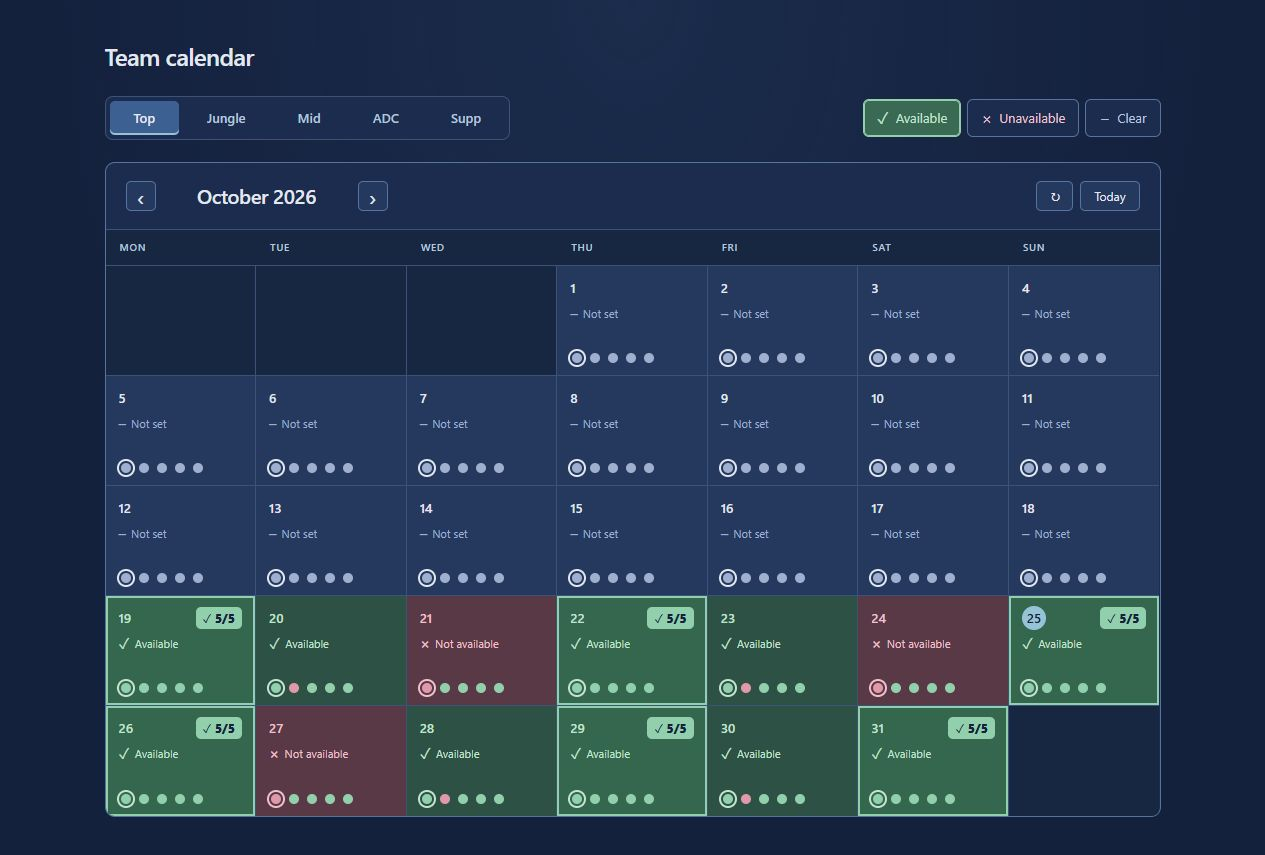
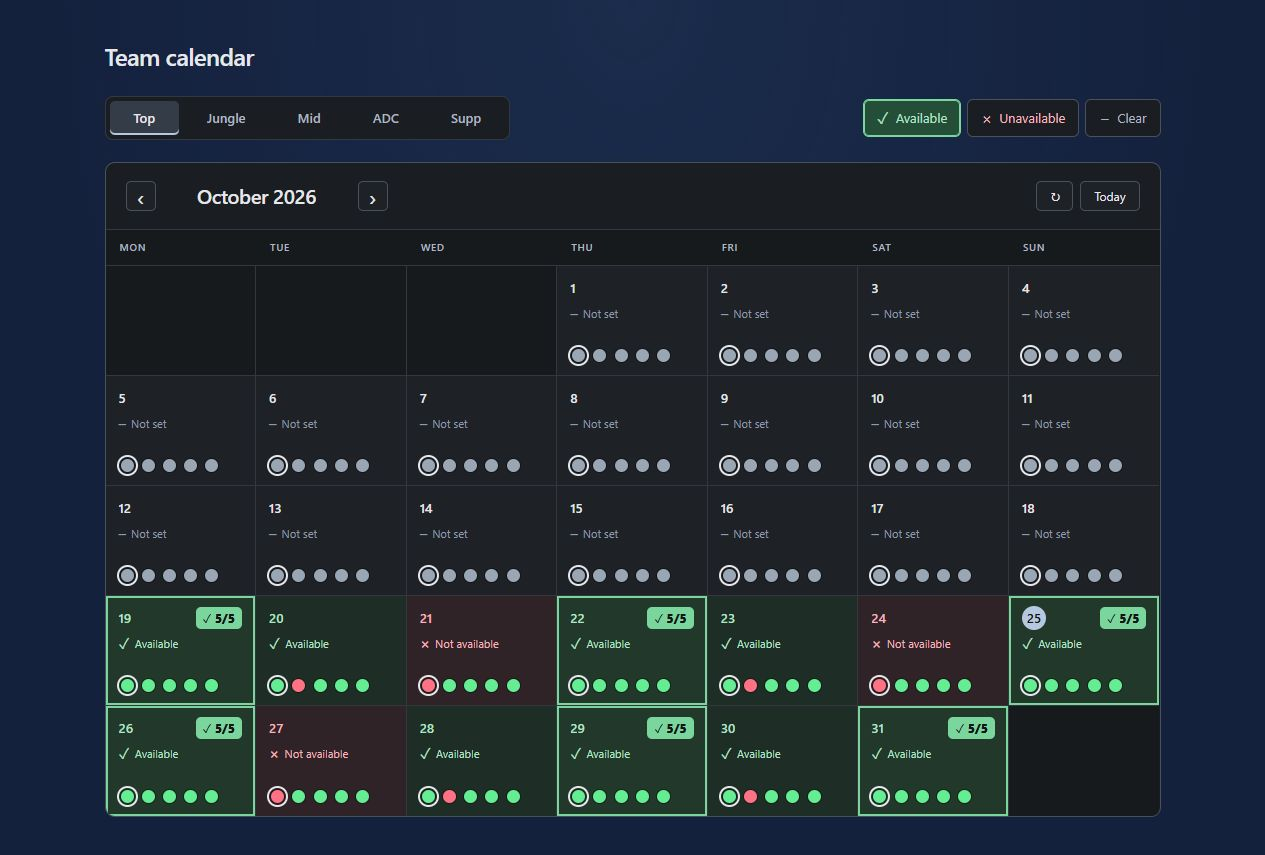
color palette edited, easier on the eyes

diff --git a/src/styles.css b/src/styles.css
@@ -1,25 +1,30 @@
 :root {
   --page: #14213d;
-  --surface: #1b2c4e;
-  --surface-raised: #25395f;
-  --surface-recessed: #172641;
-  --surface-hover: #304b76;
-  --selected: #3d6093;
-  --border: #3b5279;
-  --border-strong: #5575a0;
-  --text: #e2e7f0;
-  --muted: #b6c6df;
-  --subtle: #9eafd0;
-  --teal: #96c3d6;
-  --available-bg: #2e5145;
-  --available-selected: #3a6a54;
-  --available-accent: #92d0ad;
-  --available-text: #c2e5d0;
-  --all-available-bg: #35664e;
-  --unavailable-bg: #5a3946;
-  --unavailable-selected: #754653;
-  --unavailable-accent: #df99aa;
-  --unavailable-text: #efc0cd;
+  --page-glow: #3b60952b;
+  --surface: #1a1d21;
+  --surface-raised: #1e2227;
+  --surface-recessed: #171a1d;
+  --surface-hover: #2a3038;
+  --selected: #343c48;
+  --border: #34383e;
+  --border-strong: #49515b;
+  --text: #e5e7eb;
+  --muted: #aeb6c2;
+  --subtle: #8f9baa;
+  --accent: #b5c8e0;
+  --ink: #111315;
+  --available-bg: #1e2e26;
+  --available-selected: #244e38;
+  --available-accent: #7bd69d;
+  --available-text: #b4e4c6;
+  --all-available-bg: #22382b;
+  --unavailable-bg: #302328;
+  --unavailable-selected: #562e35;
+  --unavailable-accent: #eb8c98;
+  --unavailable-text: #f5b4bd;
+  --available-dot: #64ed93;
+  --unavailable-dot: #ff7185;
+  --unset-dot: #9ba6b5;
   font-family: Inter, -apple-system, BlinkMacSystemFont, "Segoe UI", sans-serif;
   color: var(--text);
   background: var(--page);
@@ -28,9 +33,9 @@
   line-height: 1.5;
 }
 * { box-sizing: border-box; }
-body { margin: 0; background: radial-gradient(ellipse at 50% 0, #3b60952b, transparent 65%); min-height: 100vh; }
+body { margin: 0; background: radial-gradient(ellipse at 50% 0, var(--page-glow), transparent 65%); min-height: 100vh; }
 button { font: inherit; cursor: pointer; touch-action: manipulation; }
-button:focus-visible { outline: 2px solid var(--teal); outline-offset: -3px; }
+button:focus-visible { outline: 2px solid var(--accent); outline-offset: -3px; }
 button:disabled { cursor: wait; }
 main { max-width: 1120px; margin: 0 auto; padding: 38px 32px; }
 .page-header { margin-bottom: 22px; }
@@ -44,12 +49,12 @@ h2 { margin: 0; font-weight: 600; }
 .paint-option.unavailable { color: var(--unavailable-text); }
 .paint-option.available.selected { background: var(--available-selected); border-color: var(--available-accent); box-shadow: inset 0 0 0 1px var(--available-accent); }
 .paint-option.unavailable.selected { background: var(--unavailable-selected); border-color: var(--unavailable-accent); box-shadow: inset 0 0 0 1px var(--unavailable-accent); }
-.paint-option.clear.selected { background: var(--selected); border-color: var(--teal); box-shadow: inset 0 0 0 1px var(--teal); color: var(--text); }
+.paint-option.clear.selected { background: var(--selected); border-color: var(--accent); box-shadow: inset 0 0 0 1px var(--accent); color: var(--text); }
 .paint-option:hover { filter: brightness(1.2); }
 .roles { display: inline-flex; gap: 4px; padding: 4px; border: 1px solid var(--border); border-radius: 8px; background: var(--surface); }
 .roles button { padding: 7px 24px; border: 0; border-radius: 5px; background: transparent; color: var(--muted); font-size: 13px; font-weight: 600; }
 .roles button:hover { color: var(--text); background: var(--surface-hover); }
-.roles button.selected { color: var(--text); background: var(--selected); box-shadow: inset 0 -2px var(--teal); }
+.roles button.selected { color: var(--text); background: var(--selected); box-shadow: inset 0 -2px var(--accent); }
 .calendar { overflow: hidden; border: 1px solid var(--border-strong); border-radius: 10px; background: var(--surface); }
 .calendar-toolbar { display: flex; align-items: center; justify-content: space-between; padding: 18px 20px; }
 .calendar-actions { display: flex; gap: 7px; }
@@ -68,25 +73,25 @@ h2 { margin: 0; font-weight: 600; }
 .day:nth-child(7n), .empty-day:nth-child(7n) { border-right: 0; }
 .days > :nth-last-child(-n+7) { border-bottom: 0; }
 .day { display: flex; flex-direction: column; position: relative; padding: 10px 13px; text-align: left; background: var(--surface-raised); color: var(--text); transition: background .12s, box-shadow .12s; }
-.day:hover { z-index: 1; box-shadow: inset 0 0 0 2px var(--teal); }
+.day:hover { z-index: 1; box-shadow: inset 0 0 0 2px var(--accent); }
 .day.available { background: var(--available-bg); color: var(--available-text); }
 .day.unavailable { background: var(--unavailable-bg); color: var(--unavailable-text); }
-.day.is-today .day-number { display: grid; width: 24px; height: 24px; place-items: center; border-radius: 50%; background: var(--teal); color: var(--page); }
+.day.is-today .day-number { display: grid; width: 24px; height: 24px; place-items: center; border-radius: 50%; background: var(--accent); color: var(--ink); }
 .day-top { display: flex; height: 24px; align-items: center; justify-content: space-between; }
 .day-number { font-size: 13px; font-weight: 600; }
 .day-status { display: flex; gap: 5px; align-items: center; margin-top: 6px; font-size: 11px; }
 .day-status > span:first-child { font-size: 15px; font-weight: 600; line-height: 1; }
 .day.unset .day-status { color: var(--subtle); }
-.team-dots { display: flex; align-items: center; gap: 8px; margin-top: auto; padding: 13px 2px 2px; }
-.team-dot { display: inline-block; flex-shrink: 0; width: 10px; height: 10px; border-radius: 50%; }
-.team-dot.available { background: var(--available-accent); }
-.team-dot.unavailable { background: var(--unavailable-accent); }
-.team-dot.unset { background: var(--subtle); }
-.active-dot { outline: 2px solid currentColor; outline-offset: 2px; }
+.team-dots { display: flex; align-items: center; gap: clamp(4px, .65vw, 9px); margin-top: auto; padding: 14px 2px 3px; }
+.team-dot { display: inline-block; flex-shrink: 0; width: clamp(8px, 1.1vw, 13px); height: clamp(8px, 1.1vw, 13px); border-radius: 50%; box-shadow: 0 0 0 1px #00000066; }
+.team-dot.available { background: var(--available-dot); }
+.team-dot.unavailable { background: var(--unavailable-dot); }
+.team-dot.unset { background: var(--unset-dot); }
+.active-dot { outline: 2px solid var(--text); outline-offset: 2px; }
 .empty-day { background: var(--surface-recessed); }
 .day.all-available { background: var(--all-available-bg); box-shadow: inset 0 0 0 2px var(--available-accent); }
 .day.all-available:hover { box-shadow: inset 0 0 0 3px var(--available-text); }
-.all-in { padding: 2px 7px; border-radius: 5px; background: var(--available-accent); color: var(--page); font-size: 12px; font-weight: 800; white-space: nowrap; }
+.all-in { padding: 2px 7px; border-radius: 5px; background: var(--available-accent); color: var(--ink); font-size: 12px; font-weight: 800; white-space: nowrap; }
 .error { padding: 12px 16px; border: 1px solid var(--unavailable-accent); border-radius: 8px; background: var(--unavailable-bg); color: var(--unavailable-text); font-size: 13px; }
 @media (min-width: 1400px) {
   main { padding-top: 48px; }
@@ -110,8 +115,8 @@ h2 { margin: 0; font-weight: 600; }
   .day-number { font-size: 12px; }
   .day-status { margin-top: 8px; }
   .status-text { display: none; }
-  .team-dots { gap: clamp(1px, .5vw, 4px); padding-left: 0; padding-right: 0; }
-  .team-dot { width: clamp(5px, 1.2vw, 9px); height: clamp(5px, 1.2vw, 9px); }
+  .team-dots { gap: clamp(1px, .4vw, 3px); padding-left: 0; padding-right: 0; }
+  .team-dot { width: clamp(5px, 1.7vw, 11px); height: clamp(5px, 1.7vw, 11px); }
   .active-dot { outline-offset: 1px; }
   .all-in { margin-left: auto; padding: 1px 3px; font-size: 10px; }
   .all-in > span { display: none; }
